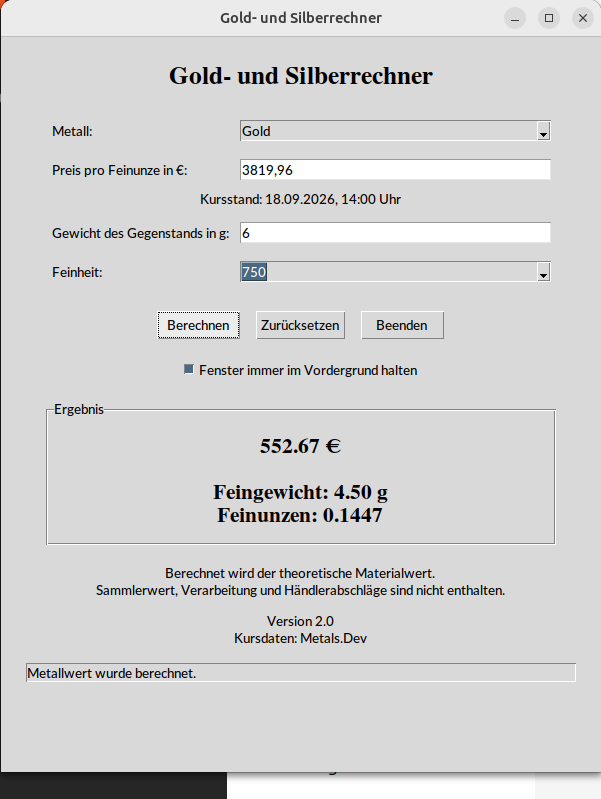
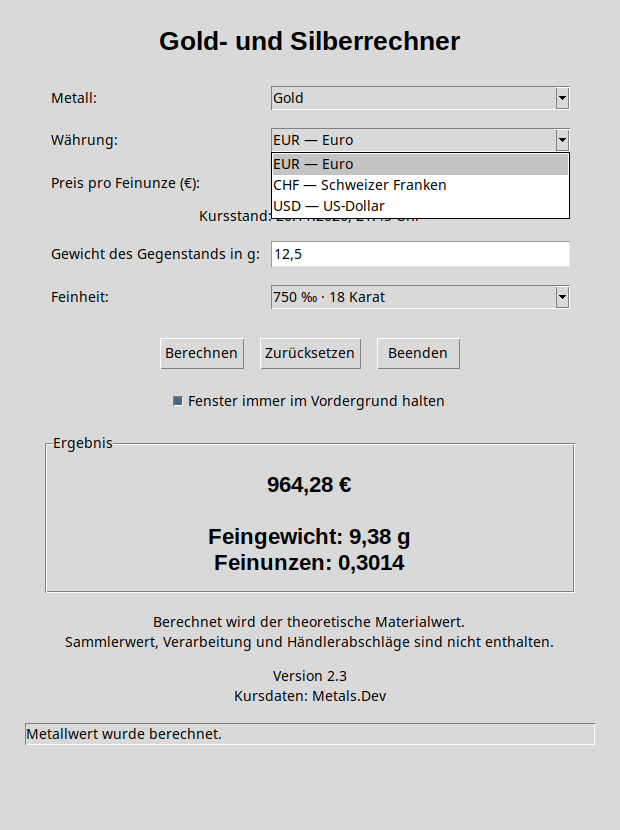
Show current German and Spanish desktop screenshots

diff --git a/README.es.md b/README.es.md
@@ -7,6 +7,10 @@ gramos, su pureza en milésimas y el precio por onza troy. La aplicación
 muestra el resultado en la moneda elegida, el peso de metal puro y su equivalente en
 onzas troy.
 
+## Captura de pantalla en Linux
+
+![Calculadora de oro y plata 2.3 en español con un cálculo en euros para plata de ley](images/screenshot-linux-es.png)
+
 ## Descargar
 
 La [versión 2.3](https://github.com/media-vm/gold-silber-rechner/releases/tag/v2.3) ofrece los mismos archivos para español y alemán:

diff --git a/README.md b/README.md
@@ -89,15 +89,9 @@ Je nach Plattform stehen unterschiedliche Installationspakete zur Verfügung, da
 - Snap
 - Android APK
 
-## Screenshots
+## Screenshot unter Linux
 
-### Linux
-
-![Gold- und Silberrechner unter Linux](images/screenshot-linux.png)
-
-### Windows
-
-![Gold- und Silberrechner unter Windows](images/screenshot-windows.png)
+![Gold- und Silberrechner 2.3 auf Deutsch mit geöffnetem Währungsmenü und einer Beispielrechnung in Euro](images/screenshot-linux.png)
 
 ## Quellcode
 
